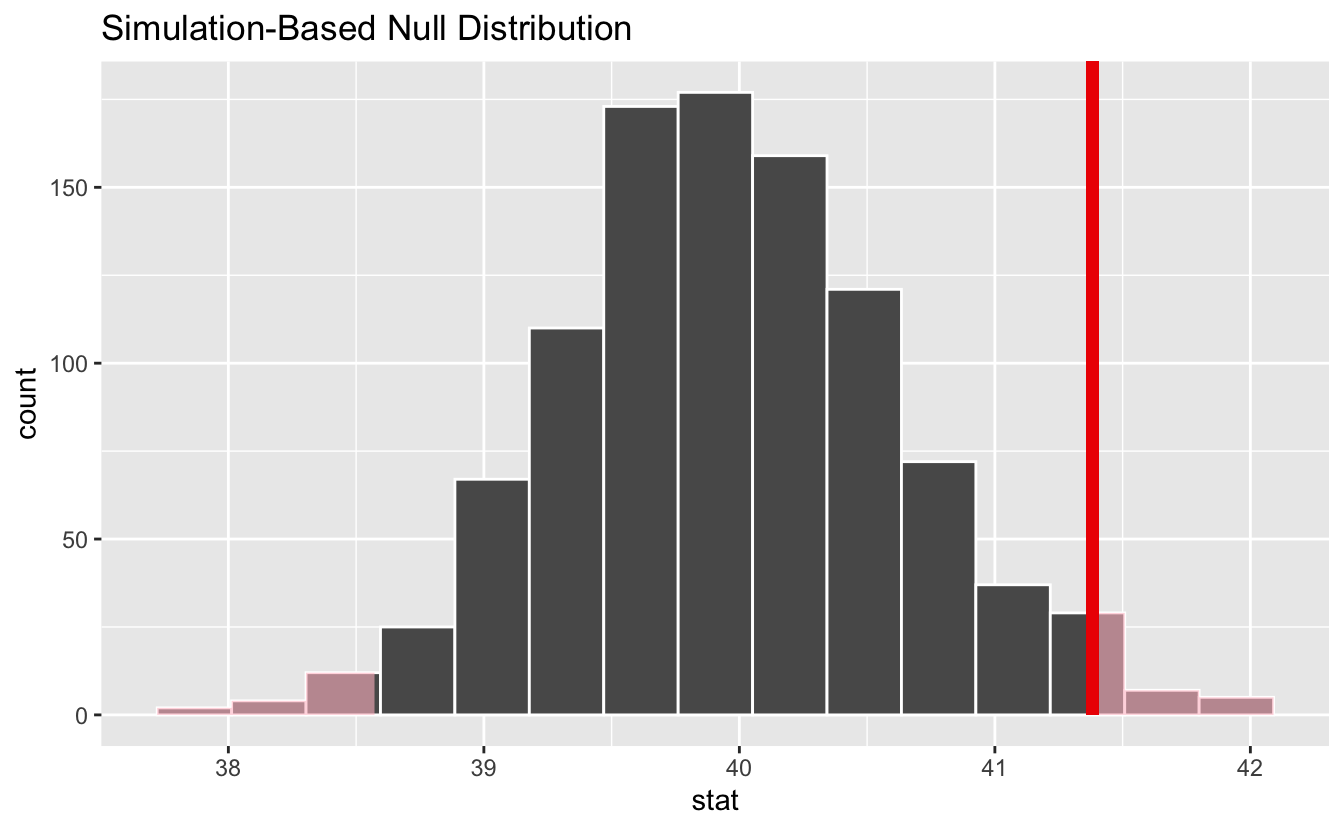
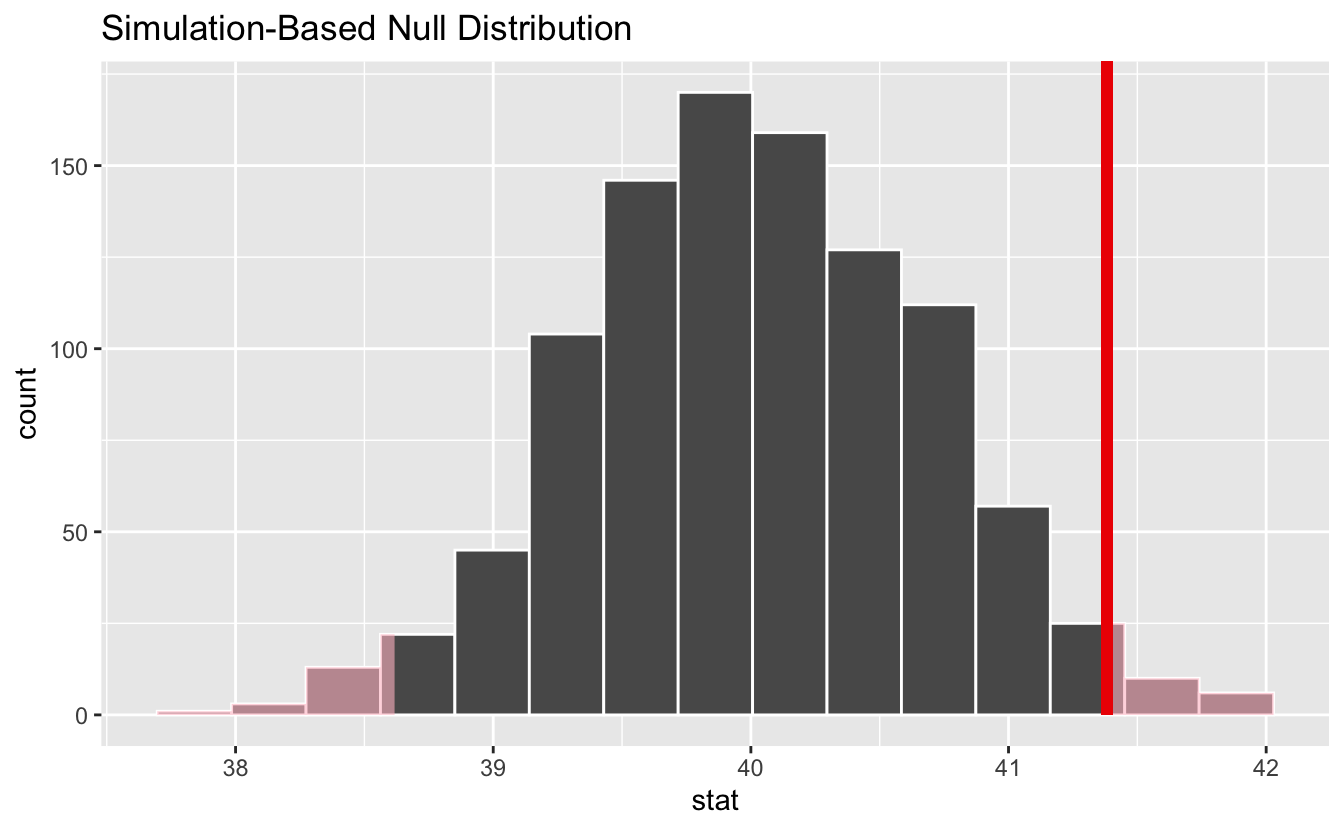
edits re: deploy preview

diff --git a/content/blog/infer-1-0-0/index.md b/content/blog/infer-1-0-0/index.md
@@ -2,7 +2,7 @@
 output: hugodown::hugo_document
 
 slug: infer-1-0-0
-title: infer 1 0 0
+title: infer 1.0.0
 date: 2021-07-19
 author: Simon Couch
 description: >
@@ -15,7 +15,7 @@ photo:
 
 categories: [package] 
 tags: [tidymodels]
-rmd_hash: fce51843ad7a033e
+rmd_hash: db97483b2a155b89
 
 ---
 
@@ -32,7 +32,7 @@ TODO:
 * [x] [`usethis::use_tidy_thanks()`](https://usethis.r-lib.org/reference/use_tidy_thanks.html)
 -->
 
-We're super excited announce the release of [infer](https://infer.tidymodels.org/) 1.0.0! infer is a package for statistical inference that implements an expressive statistical grammar that coheres with the tidyverse design framework. Rather than providing methods for specific statistical tests, this package consolidates the principles that are shared among common hypothesis tests and confidence intervals into a set of four main verbs (functions), supplemented with many utilities to visualize and extract value from their outputs.
+We're super excited announce the release of [infer](https://infer.tidymodels.org/) 1.0.0! infer is a package for statistical inference that implements an expressive statistical grammar that adheres to the tidyverse design framework. Rather than providing methods for specific statistical tests, this package consolidates the principles that are shared among common hypothesis tests and confidence intervals into a set of four main verbs (functions), supplemented with many utilities to visualize and extract value from their outputs.
 
 You can install it from CRAN with:
 
@@ -251,7 +251,7 @@ Once we've asserted our null hypothesis using [`hypothesize()`](https://infer.ti
 
 -   `bootstrap`: A bootstrap sample will be drawn for each replicate, where a sample of size equal to the input sample size is drawn (with replacement) from the input sample data.  
 -   `permute`: For each replicate, each input value will be randomly reassigned (without replacement) to a new output value in the sample.  
--   `simulate`: A value will be sampled from a theoretical distribution with parameters specified in [`hypothesize()`](https://infer.tidymodels.org/reference/hypothesize.html) for each replicate. (This option is currently only applicable for testing point estimates.)
+-   `draw`: A value will be sampled from a theoretical distribution with parameters specified in [`hypothesize()`](https://infer.tidymodels.org/reference/hypothesize.html) for each replicate. (This option is currently only applicable for testing point estimates.)
 
 Continuing on with our example above, about the average number of hours worked a week, we might write:
 
@@ -267,15 +267,15 @@ Continuing on with our example above, about the average number of hours worked a
 <span class='c'>#&gt; <span style='color: #555555;'># Groups:   replicate [1,000]</span></span>
 <span class='c'>#&gt;    replicate hours</span>
 <span class='c'>#&gt;        <span style='color: #555555; font-style: italic;'>&lt;int&gt;</span> <span style='color: #555555; font-style: italic;'>&lt;dbl&gt;</span></span>
-<span class='c'>#&gt; <span style='color: #555555;'> 1</span>         1  53.6</span>
-<span class='c'>#&gt; <span style='color: #555555;'> 2</span>         1  38.6</span>
-<span class='c'>#&gt; <span style='color: #555555;'> 3</span>         1  38.6</span>
-<span class='c'>#&gt; <span style='color: #555555;'> 4</span>         1  55.6</span>
-<span class='c'>#&gt; <span style='color: #555555;'> 5</span>         1  13.6</span>
-<span class='c'>#&gt; <span style='color: #555555;'> 6</span>         1  38.6</span>
-<span class='c'>#&gt; <span style='color: #555555;'> 7</span>         1  22.6</span>
-<span class='c'>#&gt; <span style='color: #555555;'> 8</span>         1  38.6</span>
-<span class='c'>#&gt; <span style='color: #555555;'> 9</span>         1  46.6</span>
+<span class='c'>#&gt; <span style='color: #555555;'> 1</span>         1  38.6</span>
+<span class='c'>#&gt; <span style='color: #555555;'> 2</span>         1  28.6</span>
+<span class='c'>#&gt; <span style='color: #555555;'> 3</span>         1  39.6</span>
+<span class='c'>#&gt; <span style='color: #555555;'> 4</span>         1  43.6</span>
+<span class='c'>#&gt; <span style='color: #555555;'> 5</span>         1  38.6</span>
+<span class='c'>#&gt; <span style='color: #555555;'> 6</span>         1  42.6</span>
+<span class='c'>#&gt; <span style='color: #555555;'> 7</span>         1  58.6</span>
+<span class='c'>#&gt; <span style='color: #555555;'> 8</span>         1  33.6</span>
+<span class='c'>#&gt; <span style='color: #555555;'> 9</span>         1  38.6</span>
 <span class='c'>#&gt; <span style='color: #555555;'>10</span>         1  38.6</span>
 <span class='c'>#&gt; <span style='color: #555555;'># … with 499,990 more rows</span></span></code></pre>
 
@@ -302,10 +302,10 @@ To generate a null distribution for the independence of two variables, we could 
 <span class='c'>#&gt; <span style='color: #555555;'> 2</span> ind        34         1</span>
 <span class='c'>#&gt; <span style='color: #555555;'> 3</span> ind        24         1</span>
 <span class='c'>#&gt; <span style='color: #555555;'> 4</span> ind        42         1</span>
-<span class='c'>#&gt; <span style='color: #555555;'> 5</span> ind        31         1</span>
-<span class='c'>#&gt; <span style='color: #555555;'> 6</span> rep        32         1</span>
-<span class='c'>#&gt; <span style='color: #555555;'> 7</span> ind        48         1</span>
-<span class='c'>#&gt; <span style='color: #555555;'> 8</span> other      36         1</span>
+<span class='c'>#&gt; <span style='color: #555555;'> 5</span> dem        31         1</span>
+<span class='c'>#&gt; <span style='color: #555555;'> 6</span> dem        32         1</span>
+<span class='c'>#&gt; <span style='color: #555555;'> 7</span> dem        48         1</span>
+<span class='c'>#&gt; <span style='color: #555555;'> 8</span> rep        36         1</span>
 <span class='c'>#&gt; <span style='color: #555555;'> 9</span> rep        30         1</span>
 <span class='c'>#&gt; <span style='color: #555555;'>10</span> ind        33         1</span>
 <span class='c'>#&gt; <span style='color: #555555;'># … with 499,990 more rows</span></span></code></pre>
@@ -314,7 +314,7 @@ To generate a null distribution for the independence of two variables, we could 
 
 ### calculate(): Calculating Summary Statistics
 
-[`calculate()`](https://infer.tidymodels.org/reference/calculate.html) calculates summary statistics from the output of infer core functions. The function, for one, takes in a `stat` argument, which is currently one of "mean", "median", "sum", "sd", "prop", "count", "diff in means", "diff in medians", "diff in props", "Chisq", "F", "t", "z", "slope", or "correlation". For example, continuing our example above to calculate the null distribution of mean hours worked per week:
+[`calculate()`](https://infer.tidymodels.org/reference/calculate.html) calculates summary statistics from the output of infer core functions. The function, for one, takes in a `stat` argument, which is currently one of `"mean"`, `"median"`, `"sum"`, `"sd"`, `"prop"`, `"count"`, `"diff in means"`, `"diff in medians"`, `"diff in props"`, `"Chisq"`, `"F"`, `"t"`, `"z"`, `"slope"`, or `"correlation"`. For example, continuing our example above to calculate the null distribution of mean hours worked per week:
 
 <div class="highlight">
 
@@ -328,16 +328,16 @@ To generate a null distribution for the independence of two variables, we could 
 <span class='c'>#&gt; <span style='color: #555555;'># A tibble: 1,000 x 2</span></span>
 <span class='c'>#&gt;    replicate  stat</span>
 <span class='c'>#&gt;        <span style='color: #555555; font-style: italic;'>&lt;int&gt;</span> <span style='color: #555555; font-style: italic;'>&lt;dbl&gt;</span></span>
-<span class='c'>#&gt; <span style='color: #555555;'> 1</span>         1  40.2</span>
+<span class='c'>#&gt; <span style='color: #555555;'> 1</span>         1  40.3</span>
 <span class='c'>#&gt; <span style='color: #555555;'> 2</span>         2  40.1</span>
 <span class='c'>#&gt; <span style='color: #555555;'> 3</span>         3  40.5</span>
-<span class='c'>#&gt; <span style='color: #555555;'> 4</span>         4  41.5</span>
-<span class='c'>#&gt; <span style='color: #555555;'> 5</span>         5  39.6</span>
-<span class='c'>#&gt; <span style='color: #555555;'> 6</span>         6  40.0</span>
-<span class='c'>#&gt; <span style='color: #555555;'> 7</span>         7  40.5</span>
-<span class='c'>#&gt; <span style='color: #555555;'> 8</span>         8  40.7</span>
-<span class='c'>#&gt; <span style='color: #555555;'> 9</span>         9  40.1</span>
-<span class='c'>#&gt; <span style='color: #555555;'>10</span>        10  39.1</span>
+<span class='c'>#&gt; <span style='color: #555555;'> 4</span>         4  40.3</span>
+<span class='c'>#&gt; <span style='color: #555555;'> 5</span>         5  40.9</span>
+<span class='c'>#&gt; <span style='color: #555555;'> 6</span>         6  39.5</span>
+<span class='c'>#&gt; <span style='color: #555555;'> 7</span>         7  40.6</span>
+<span class='c'>#&gt; <span style='color: #555555;'> 8</span>         8  40.5</span>
+<span class='c'>#&gt; <span style='color: #555555;'> 9</span>         9  40.8</span>
+<span class='c'>#&gt; <span style='color: #555555;'>10</span>        10  39.0</span>
 <span class='c'>#&gt; <span style='color: #555555;'># … with 990 more rows</span></span></code></pre>
 
 </div>
@@ -359,7 +359,7 @@ The output of [`calculate()`](https://infer.tidymodels.org/reference/calculate.h
 
 ### Other Utilities
 
-infer offers several utilities to extract the meaning out of summary statistics and distributions---the package provides functions to visualize where a statistic is relative to a distribution (with [`visualize()`](https://infer.tidymodels.org/reference/visualize.html)), calculate p-values (with [`get_p_value()`](https://infer.tidymodels.org/reference/get_p_value.html)), and calculate confidence intervals (with [`get_confidence_interval()`](https://infer.tidymodels.org/reference/get_confidence_interval.html)).
+infer offers several utilities to extract meaning from summary statistics and distributions---the package provides functions to visualize where a statistic is relative to a distribution (with [`visualize()`](https://infer.tidymodels.org/reference/visualize.html)), calculate p-values (with [`get_p_value()`](https://infer.tidymodels.org/reference/get_p_value.html)), and calculate confidence intervals (with [`get_confidence_interval()`](https://infer.tidymodels.org/reference/get_confidence_interval.html)).
 
 To illustrate, we'll go back to the example of determining whether the mean number of hours worked per week is 40 hours.
 
@@ -415,11 +415,11 @@ Notice that infer has also shaded the regions of the null distribution that are 
 <span class='c'>#&gt; <span style='color: #555555;'># A tibble: 1 x 1</span></span>
 <span class='c'>#&gt;   p_value</span>
 <span class='c'>#&gt;     <span style='color: #555555; font-style: italic;'>&lt;dbl&gt;</span></span>
-<span class='c'>#&gt; <span style='color: #555555;'>1</span>   0.032</span></code></pre>
+<span class='c'>#&gt; <span style='color: #555555;'>1</span>   0.038</span></code></pre>
 
 </div>
 
-It looks like the p-value is 0.032, which is pretty small---if the true mean number of hours worked per week was actually 40, the probability of our sample mean being this far (1.382 hours) from 40 would be 0.032. This may or may not be statistically significantly different, depending on the significance level $\alpha$ you decided on *before* you ran this analysis. If you had set $\alpha = .05$, then this difference would be statistically significant, but if you had set $\alpha = .01$, then it would not be.
+It looks like the p-value is 0.038, which is pretty small---if the true mean number of hours worked per week was actually 40, the probability of our sample mean being this far (1.382 hours) from 40 would be 0.038. This may or may not be statistically significantly different, depending on the significance level $\alpha$ you decided on *before* you ran this analysis. If you had set $\alpha = .05$, then this difference would be statistically significant, but if you had set $\alpha = .01$, then it would not be.
 
 To get a confidence interval around our estimate, we can write:
 
@@ -483,16 +483,16 @@ If passed a [`generate()`](https://infer.tidymodels.org/reference/generate.html)
 <span class='c'>#&gt; <span style='color: #555555;'># Groups:   replicate [100]</span></span>
 <span class='c'>#&gt;    replicate term          estimate</span>
 <span class='c'>#&gt;        <span style='color: #555555; font-style: italic;'>&lt;int&gt;</span> <span style='color: #555555; font-style: italic;'>&lt;chr&gt;</span>            <span style='color: #555555; font-style: italic;'>&lt;dbl&gt;</span></span>
-<span class='c'>#&gt; <span style='color: #555555;'> 1</span>         1 intercept      44.3   </span>
-<span class='c'>#&gt; <span style='color: #555555;'> 2</span>         1 age            -<span style='color: #BB0000;'>0.088</span><span style='color: #BB0000; text-decoration: underline;'>6</span></span>
-<span class='c'>#&gt; <span style='color: #555555;'> 3</span>         1 collegedegree   1.79  </span>
-<span class='c'>#&gt; <span style='color: #555555;'> 4</span>         2 intercept      44.9   </span>
-<span class='c'>#&gt; <span style='color: #555555;'> 5</span>         2 age            -<span style='color: #BB0000;'>0.092</span><span style='color: #BB0000; text-decoration: underline;'>3</span></span>
-<span class='c'>#&gt; <span style='color: #555555;'> 6</span>         2 collegedegree   0.700 </span>
-<span class='c'>#&gt; <span style='color: #555555;'> 7</span>         3 intercept      38.1   </span>
-<span class='c'>#&gt; <span style='color: #555555;'> 8</span>         3 age             0.084<span style='text-decoration: underline;'>6</span></span>
-<span class='c'>#&gt; <span style='color: #555555;'> 9</span>         3 collegedegree  -<span style='color: #BB0000;'>0.463</span> </span>
-<span class='c'>#&gt; <span style='color: #555555;'>10</span>         4 intercept      43.2   </span>
+<span class='c'>#&gt; <span style='color: #555555;'> 1</span>         1 intercept     40.9    </span>
+<span class='c'>#&gt; <span style='color: #555555;'> 2</span>         1 age            0.010<span style='text-decoration: underline;'>0</span> </span>
+<span class='c'>#&gt; <span style='color: #555555;'> 3</span>         1 collegedegree  0.198  </span>
+<span class='c'>#&gt; <span style='color: #555555;'> 4</span>         2 intercept     35.9    </span>
+<span class='c'>#&gt; <span style='color: #555555;'> 5</span>         2 age            0.133  </span>
+<span class='c'>#&gt; <span style='color: #555555;'> 6</span>         2 collegedegree  0.347  </span>
+<span class='c'>#&gt; <span style='color: #555555;'> 7</span>         3 intercept     41.5    </span>
+<span class='c'>#&gt; <span style='color: #555555;'> 8</span>         3 age            0.006<span style='text-decoration: underline;'>71</span></span>
+<span class='c'>#&gt; <span style='color: #555555;'> 9</span>         3 collegedegree -<span style='color: #BB0000;'>1.04</span>   </span>
+<span class='c'>#&gt; <span style='color: #555555;'>10</span>         4 intercept     41.3    </span>
 <span class='c'>#&gt; <span style='color: #555555;'># … with 290 more rows</span></span></code></pre>
 
 </div>
@@ -508,18 +508,18 @@ If `type = "permute"`, a set of unquoted column names in the data to permute (in
   <span class='nf'><a href='https://generics.r-lib.org/reference/fit.html'>fit</a></span><span class='o'>(</span><span class='o'>)</span>
 <span class='c'>#&gt; <span style='color: #555555;'># A tibble: 300 x 3</span></span>
 <span class='c'>#&gt; <span style='color: #555555;'># Groups:   replicate [100]</span></span>
-<span class='c'>#&gt;    replicate term           estimate</span>
-<span class='c'>#&gt;        <span style='color: #555555; font-style: italic;'>&lt;int&gt;</span> <span style='color: #555555; font-style: italic;'>&lt;chr&gt;</span>             <span style='color: #555555; font-style: italic;'>&lt;dbl&gt;</span></span>
-<span class='c'>#&gt; <span style='color: #555555;'> 1</span>         1 intercept     41.1     </span>
-<span class='c'>#&gt; <span style='color: #555555;'> 2</span>         1 age           -<span style='color: #BB0000;'>0.000</span><span style='color: #BB0000; text-decoration: underline;'>332</span></span>
-<span class='c'>#&gt; <span style='color: #555555;'> 3</span>         1 collegedegree  0.771   </span>
-<span class='c'>#&gt; <span style='color: #555555;'> 4</span>         2 intercept     42.9     </span>
-<span class='c'>#&gt; <span style='color: #555555;'> 5</span>         2 age           -<span style='color: #BB0000;'>0.043</span><span style='color: #BB0000; text-decoration: underline;'>3</span>  </span>
-<span class='c'>#&gt; <span style='color: #555555;'> 6</span>         2 collegedegree  0.522   </span>
-<span class='c'>#&gt; <span style='color: #555555;'> 7</span>         3 intercept     43.1     </span>
-<span class='c'>#&gt; <span style='color: #555555;'> 8</span>         3 age           -<span style='color: #BB0000;'>0.053</span><span style='color: #BB0000; text-decoration: underline;'>8</span>  </span>
-<span class='c'>#&gt; <span style='color: #555555;'> 9</span>         3 collegedegree  1.28    </span>
-<span class='c'>#&gt; <span style='color: #555555;'>10</span>         4 intercept     37.8     </span>
+<span class='c'>#&gt;    replicate term          estimate</span>
+<span class='c'>#&gt;        <span style='color: #555555; font-style: italic;'>&lt;int&gt;</span> <span style='color: #555555; font-style: italic;'>&lt;chr&gt;</span>            <span style='color: #555555; font-style: italic;'>&lt;dbl&gt;</span></span>
+<span class='c'>#&gt; <span style='color: #555555;'> 1</span>         1 intercept      43.4   </span>
+<span class='c'>#&gt; <span style='color: #555555;'> 2</span>         1 age            -<span style='color: #BB0000;'>0.023</span><span style='color: #BB0000; text-decoration: underline;'>8</span></span>
+<span class='c'>#&gt; <span style='color: #555555;'> 3</span>         1 collegedegree  -<span style='color: #BB0000;'>2.95</span>  </span>
+<span class='c'>#&gt; <span style='color: #555555;'> 4</span>         2 intercept      38.7   </span>
+<span class='c'>#&gt; <span style='color: #555555;'> 5</span>         2 age             0.071<span style='text-decoration: underline;'>5</span></span>
+<span class='c'>#&gt; <span style='color: #555555;'> 6</span>         2 collegedegree  -<span style='color: #BB0000;'>0.556</span> </span>
+<span class='c'>#&gt; <span style='color: #555555;'> 7</span>         3 intercept      42.5   </span>
+<span class='c'>#&gt; <span style='color: #555555;'> 8</span>         3 age            -<span style='color: #BB0000;'>0.029</span><span style='color: #BB0000; text-decoration: underline;'>6</span></span>
+<span class='c'>#&gt; <span style='color: #555555;'> 9</span>         3 collegedegree   0.321 </span>
+<span class='c'>#&gt; <span style='color: #555555;'>10</span>         4 intercept      41.0   </span>
 <span class='c'>#&gt; <span style='color: #555555;'># … with 290 more rows</span></span></code></pre>
 
 </div>
